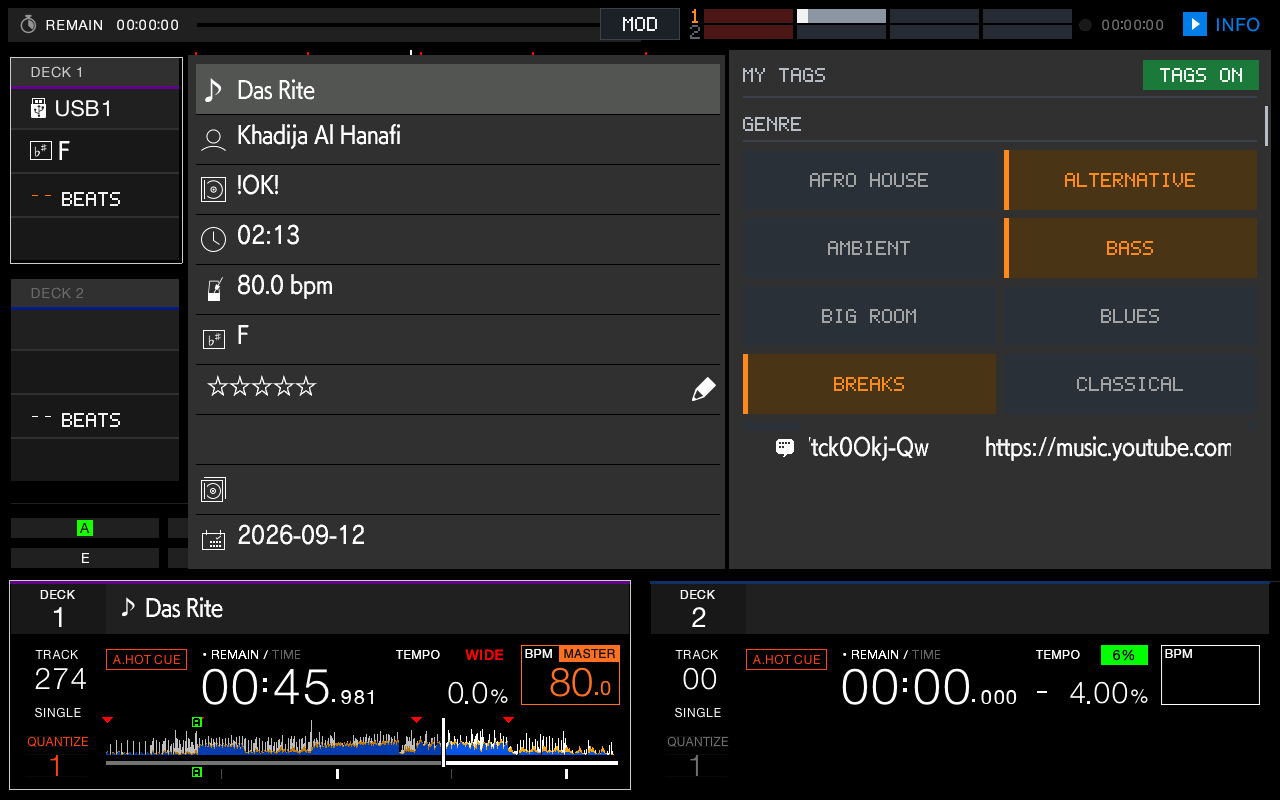
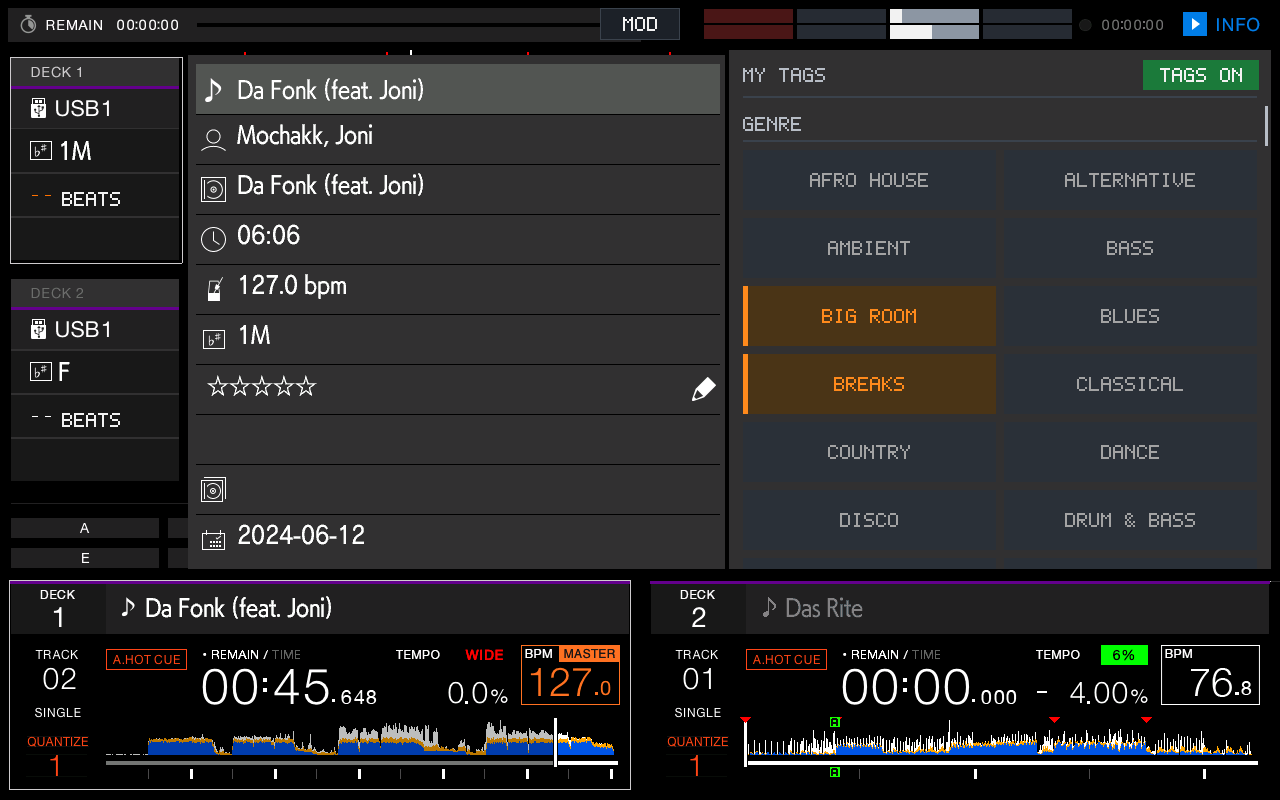
Document My Tags: new how-to, current screenshot, README row
Drop the old my-tags-mod.png (unreferenced, showed the small-text list).

diff --git a/docs/14-using-the-extras.md b/docs/14-using-the-extras.md
@@ -41,15 +41,24 @@ The countdown turns red in the last 16 beats (4 beats in BEATS mode). It shows `
 
 ## My Tags in the track INFO panel
 
-Open the track **INFO** panel (the **INFO** button, top right of the screen). The right half, where the artwork would be, lists **every My Tag** (the tags you set in rekordbox) as a button, grouped by category. The loaded track's tags are **orange**; the rest are grey.
+See and change a track's **My Tags** (the genre, mood and other tags you set in rekordbox) without leaving the player. **Tap a tag to tag or untag the loaded track.**
 
-![My Tags in the INFO panel](my-tags.png)
+![My Tags in the INFO panel: every tag as a button, the loaded track's in orange](my-tags.png)
 
-* **Tap a tag to tag or untag the loaded track.** The change is written to the stick (the header shows SAVING, then it lights or dims). If it says NOT SAVED, the write failed and nothing changed.
-* **Drag the list up or down to scroll.**
-* **Turn the list off or on** with the **TAGS ON / OFF** button at the top right of the list, or with MOD row **TAGS**. They are the same setting.
-* The MOD menu stays on top; the list moves to its right while it is open.
-* Tags are shown in capitals. The list follows the track the INFO panel shows, which is the selected deck's: tap DECK 1 or DECK 2 on the left to switch.
+**How to use it:**
+
+1. Load a track and tap the **INFO** button (top right of the screen). The right half of the panel, where the artwork would be, now lists **every My Tag** as a button, grouped by category (Genre, Mood, and so on). The loaded track's tags are **orange**; the rest are grey.
+2. **Drag the list up or down** to scroll. The thin bar on its right edge shows where you are.
+3. **Tap a tag** to give the track that tag, or tap an orange one to take it off. The header shows **SAVING** while it is written to the stick, then the button lights or dims. If it says **NOT SAVED**, the write failed and nothing changed.
+4. **Switch decks** by tapping **DECK 1** or **DECK 2** on the left. The INFO panel and the tag list follow the selected deck (the one with the white frame).
+
+**Settings and behaviour:**
+
+* **Turn the list off or on** with the **TAGS ON / OFF** button at the top right of the list, or with MOD row **TAGS**. They are the same setting. With it off, rbp shows the artwork area as usual and a small TAGS OFF button stays to bring the list back.
+* The MOD menu stays on top; the list moves to its right while the menu is open.
+* The list stays on top of rbp's scrolling comment line and the "TRACK n/m" text, and it costs no measurable CPU or frame rate (about 60 fps with the panel open, same as with the list off).
+* Tags are shown in capitals.
+* If the stick has no My Tags (rekordbox writes them to `PIONEER/rekordbox/exportExt.pdb` when it exports), the area keeps rbp's artwork and there is nothing to show.
 * **Careful:** this edits your stick's library. A copy of the tag file is saved on the unit before the first change of each run (`/data/rbx3-run/mytags-backup/`). rekordbox on your computer does not read these changes, and its next export of the stick replaces them.
 
 Details: [08 — My Tags](08-controls.md#my-tags-in-the-info-panel).

diff --git a/README.md b/README.md
@@ -43,7 +43,7 @@ New in this fork, on top of the port. **How to use each one: [docs/14 — Using 
 | Memory cues | **SLIP** stores one, the pad page **◄ ►** jump between them, **SHIFT + ◄** deletes | [use](docs/14-using-the-extras.md#memory-cues-slip-and-the-pad-page-arrows) · [ref](docs/08-controls.md#memory-cues) |
 | Hot cue countdown | the deck info box counts to the next hot cue, in bars or beats | [use](docs/14-using-the-extras.md#the-hot-cue-countdown-deck-info-boxes) · [ref](docs/06-display.md#deck-info-panel) |
 | Deck info rows | show or hide source, key, countdown and loop size; **INFO OFF** restores stock rbp | [use](docs/14-using-the-extras.md#the-hot-cue-countdown-deck-info-boxes) · [ref](docs/06-display.md#deck-info-panel) |
-| My Tags | the track INFO panel shows the loaded track's rekordbox My Tags where the artwork would be; MOD **TAGS** toggles it | [use](docs/14-using-the-extras.md#my-tags-in-the-track-info-panel) · [ref](docs/08-controls.md#my-tags-in-the-info-panel) |
+| My Tags | the track INFO panel lists every rekordbox My Tag as a scrolling button, the loaded track's in orange; **tap one to tag or untag the track** (written to the stick); MOD **TAGS** toggles it | [use](docs/14-using-the-extras.md#my-tags-in-the-track-info-panel) · [ref](docs/08-controls.md#my-tags-in-the-info-panel) |
 | Beat meter | per-deck bar position or drift between decks, in the top bar | [use](docs/14-using-the-extras.md#beat-meter) · [ref](docs/08-controls.md#beat-meter) |
 | SHIFT combos | SHIFT + pad deletes a hot cue, SHIFT + jog searches, SEARCH `<` `>` can beat-jump by the loop size | [use](docs/14-using-the-extras.md#shift-combos) · [ref](docs/08-controls.md#shift) |
 | Touch Cue | touch a playing deck's overview to hear that point in the headphones, set a hot cue from a pad | [use](docs/14-using-the-extras.md#touch-cue) · [ref](docs/08-controls.md#touch-cue) |
